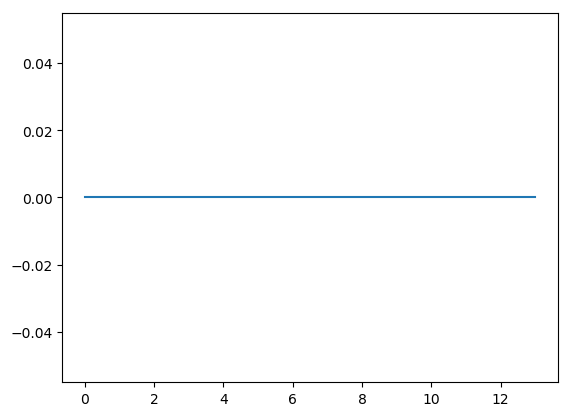
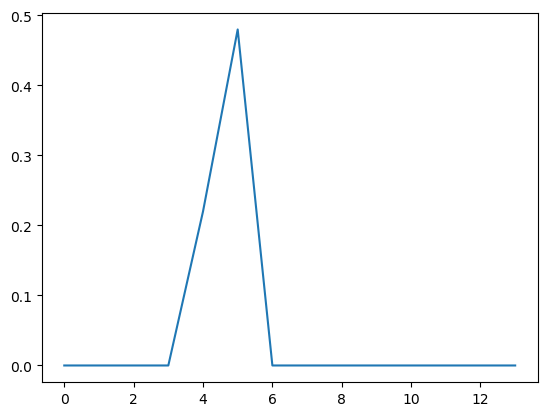
add mamdani defuzzification and centroid calculation for output

diff --git a/rules.py b/rules.py
@@ -1,10 +1,19 @@
+import matplotlib.pyplot as plt
 import numpy as np
 
-import distance as dist
 import brightness as br
+import distance as dist
 import power
 
 from graph import draw_graph
+
+def union(x, y):
+    output = []
+
+    for i in range(len(x)):
+        a = max(x[i], y[i])
+        output.append(a)
+    return output
 
 class Rule(object):
     def __init__(self, distance, brightness):
@@ -14,46 +23,79 @@ class Rule(object):
 
     def fuzzificate(self, rule_no):
         alpha_cut = min(self.distance_membership, self.brightness_membership)
-
         ranges = self.ranges
-        y = []
+        rule_outs = []
 
         if(rule_no == 1):
+            y1 = []
             for i in range(len(ranges)):
-                y.append(round(power.very_high(ranges[i], alpha_cut), 2))
+                y1.append(round(power.very_high(ranges[i], alpha_cut), 2))
+            draw_graph(ranges, y1, 'rule' + str(1), 1)
+            return y1
         elif(rule_no == 2):
+            y2 = []
             for i in range(len(ranges)):
-                y.append(round(power.very_high(ranges[i], alpha_cut), 2))
+                y2.append(round(power.very_high(ranges[i], alpha_cut), 2))
+            draw_graph(ranges, y2, 'rule' + str(2), 2)
+            return y2
         elif(rule_no == 3):
+            y3 = []
             for i in range(len(ranges)):
-                y.append(round(power.high(ranges[i], alpha_cut), 2))
+                y3.append(round(power.high(ranges[i], alpha_cut), 2))
+            draw_graph(ranges, y3, 'rule' + str(3), 3)
+            return y3
         elif(rule_no == 4):
+            y4 = []
             for i in range(len(ranges)):
-                y.append(round(power.high(ranges[i], alpha_cut), 2))
+                y4.append(round(power.high(ranges[i], alpha_cut), 2))
+            draw_graph(ranges, y4, 'rule' + str(4), 4)
+            return y4
         elif(rule_no == 5):
+            y5 = []
             for i in range(len(ranges)):
-                y.append(round(power.low(ranges[i], alpha_cut), 2))
+                y5.append(round(power.low(ranges[i], alpha_cut), 2))
+            draw_graph(ranges, y5, 'rule' + str(5), 5)
+            return y5
         elif(rule_no == 6):
+            y6 = []
             for i in range(len(ranges)):
-                y.append(round(power.low(ranges[i], alpha_cut), 2))
+                y6.append(round(power.low(ranges[i], alpha_cut), 2))
+            draw_graph(ranges, y6, 'rule' + str(6), 6)
+            return y6
         elif(rule_no == 7):
+            y7 = []
             for i in range(len(ranges)):
-                y.append(round(power.low(ranges[i], alpha_cut), 2))
+                y7.append(round(power.low(ranges[i], alpha_cut), 2))
+            draw_graph(ranges, y7, 'rule' + str(7), 7)
+            return y7
         elif(rule_no == 8):
+            y8 = []
             for i in range(len(ranges)):
-                y.append(round(power.low(ranges[i], alpha_cut), 2))
+                y8.append(round(power.low(ranges[i], alpha_cut), 2))
+            draw_graph(ranges, y8, 'rule' + str(8), 8)
+            return y8
         elif(rule_no == 9):
+            y9 = []
             for i in range(len(ranges)):
-                y.append(round(power.very_low(ranges[i], alpha_cut), 2))
+                y9.append(round(power.very_low(ranges[i], alpha_cut), 2))
+            draw_graph(ranges, y9, 'rule' + str(9), 9)
+            return y9
         elif(rule_no == 10):
+            y10 = []
             for i in range(len(ranges)):
-                y.append(round(power.low(ranges[i], alpha_cut), 2))
+                y10.append(round(power.low(ranges[i], alpha_cut), 2))
+            draw_graph(ranges, y10, 'rule' + str(10), 10)
+            return y10
         elif(rule_no == 11):
+            y11 = []
             for i in range(len(ranges)):
-                y.append(round(power.very_low(ranges[i], alpha_cut), 2))
+                y11.append(round(power.very_low(ranges[i], alpha_cut), 2))
+            draw_graph(ranges, y11, 'rule' + str(11), 11)
+            return y11
         elif(rule_no == 12):
+            y12 = []
             for i in range(len(ranges)):
-                y.append(round(power.very_low(ranges[i], alpha_cut), 2))
-
-        draw_graph(ranges, y, 'rule' + str(rule_no), rule_no)
-        return y
+                y12.append(round(power.very_low(ranges[i], alpha_cut), 2))
+            draw_graph(ranges, y12, 'rule' + str(12), 12)
+            return y12
+        

diff --git a/fis.py b/fis.py
@@ -1,18 +1,10 @@
 import matplotlib.pyplot as plt
 import numpy as np
 
-from rules import Rule
+from rules import Rule, union
 import brightness as br
 import distance as dist
 import power
-
-def union(x, y):
-    output = []
-
-    for i in range(len(x)):
-        a = max(x[i], y[i])
-        output.append(a)
-    return output
 
 if(__name__ == '__main__'):
     # main function goes here
@@ -20,28 +12,55 @@ if(__name__ == '__main__'):
     # distance 0 - 750 cm
     input_dist = float(input('Distance: '))
     input_brightness = float(input('Brightness: '))
+    rule_output = []
+    y = 0
+    yx = 0
     
     rule1 = Rule(dist.very_far(input_dist), br.dark(input_brightness))
-    rule1.fuzzificate(1)
+    rule_output.append(rule1.fuzzificate(1))
     rule2 = Rule(dist.very_far(input_dist), br.low_brightness(input_brightness))
-    rule2.fuzzificate(2)
+    rule_output.append(rule2.fuzzificate(2))
     rule3 = Rule(dist.very_far(input_dist), br.medium_brightness(input_brightness))
-    rule3.fuzzificate(3)
+    rule_output.append(rule3.fuzzificate(3))
     rule4 = Rule(dist.far(input_dist), br.dark(input_brightness))
-    rule4.fuzzificate(4)
+    rule_output.append(rule4.fuzzificate(4))
     rule5 = Rule(dist.far(input_dist), br.low_brightness(input_brightness))
-    rule5.fuzzificate(5)
+    rule_output.append(rule5.fuzzificate(5))
     rule6 = Rule(dist.far(input_dist), br.medium_brightness(input_brightness))
-    rule6.fuzzificate(6)
+    rule_output.append(rule6.fuzzificate(6))
     rule7 = Rule(dist.not_far(input_dist), br.medium_brightness(input_brightness))
-    rule7.fuzzificate(7)
+    rule_output.append(rule7.fuzzificate(7))
     rule8 = Rule(dist.not_far(input_dist), br.medium_brightness(input_brightness))
-    rule8.fuzzificate(8)
+    rule_output.append(rule8.fuzzificate(8))
     rule9 = Rule(dist.not_far(input_dist), br.medium_brightness(input_brightness))
-    rule9.fuzzificate(9)
+    rule_output.append(rule9.fuzzificate(9))
     rule10 = Rule(dist.close(input_dist), br.dark(input_brightness))
-    rule10.fuzzificate(10)
+    rule_output.append(rule10.fuzzificate(10))
     rule11 = Rule(dist.close(input_dist), br.low_brightness(input_brightness))
-    rule11.fuzzificate(11)
+    rule_output.append(rule11.fuzzificate(11))
     rule12 = Rule(dist.close(input_dist), br.medium_brightness(input_brightness))
-    rule12.fuzzificate(12)
+    rule_output.append(rule12.fuzzificate(12))
+
+    output = union(rule_output[0], rule_output[1])
+    output = union(output, rule_output[2])
+    output = union(output, rule_output[3])
+    output = union(output, rule_output[4])
+    output = union(output, rule_output[5])
+    output = union(output, rule_output[6])
+    output = union(output, rule_output[7])
+    output = union(output, rule_output[8])
+    output = union(output, rule_output[9])
+    output = union(output, rule_output[10])
+    output = union(output, rule_output[11])
+    
+    print("output: ", rule_output)
+
+    for i in range(len(rule_output)):
+        y += rule1.ranges[i] * output[i]
+        yx += output[i]
+    centroid = y / yx
+
+    print("centroid: ", centroid)
+    plt.figure(0)
+    plt.plot(rule1.ranges, output)
+    plt.savefig("output.png", bbox_inches='tight')
